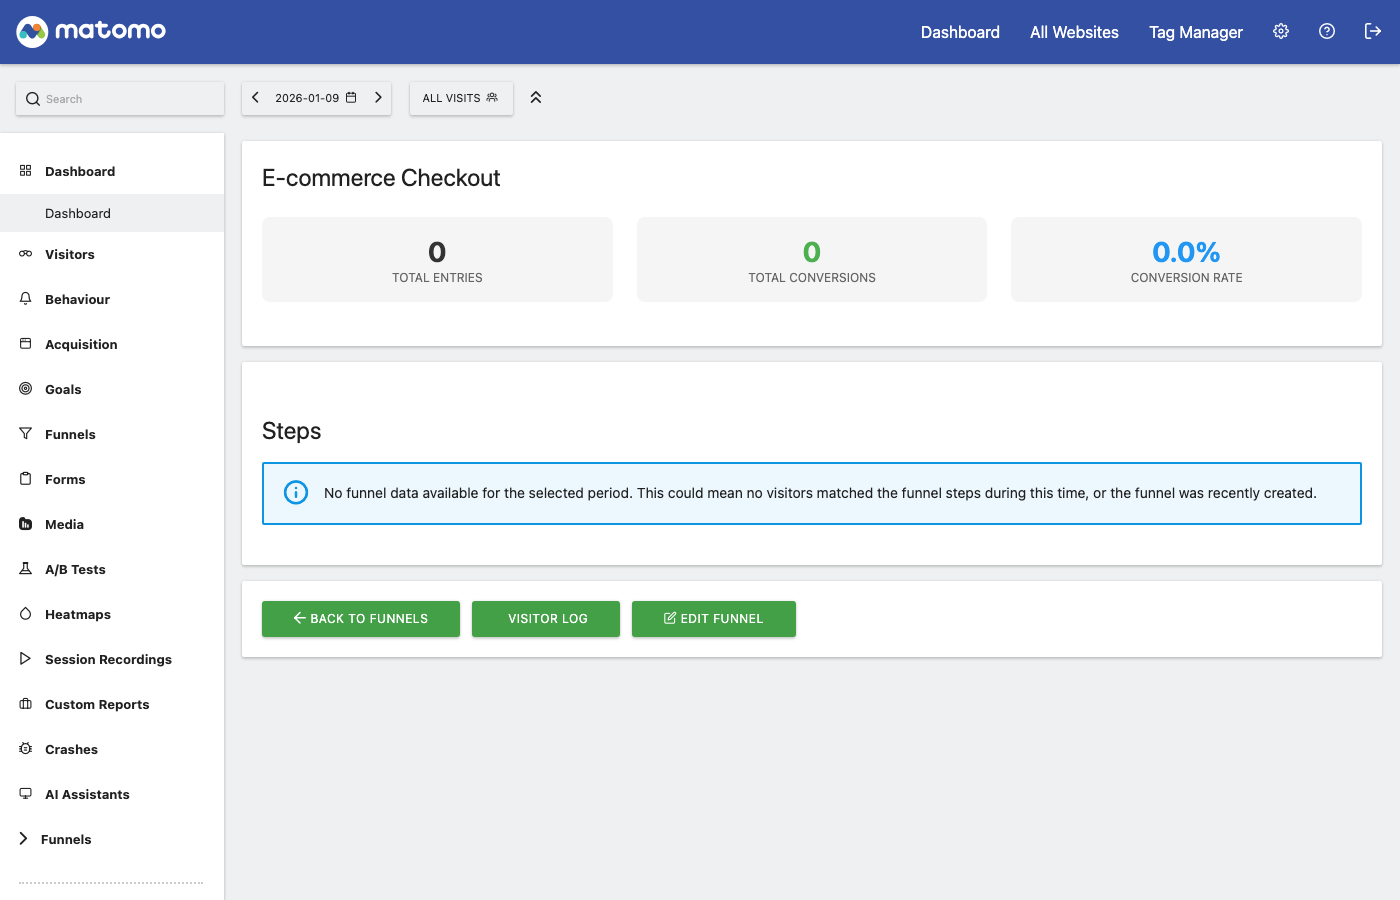
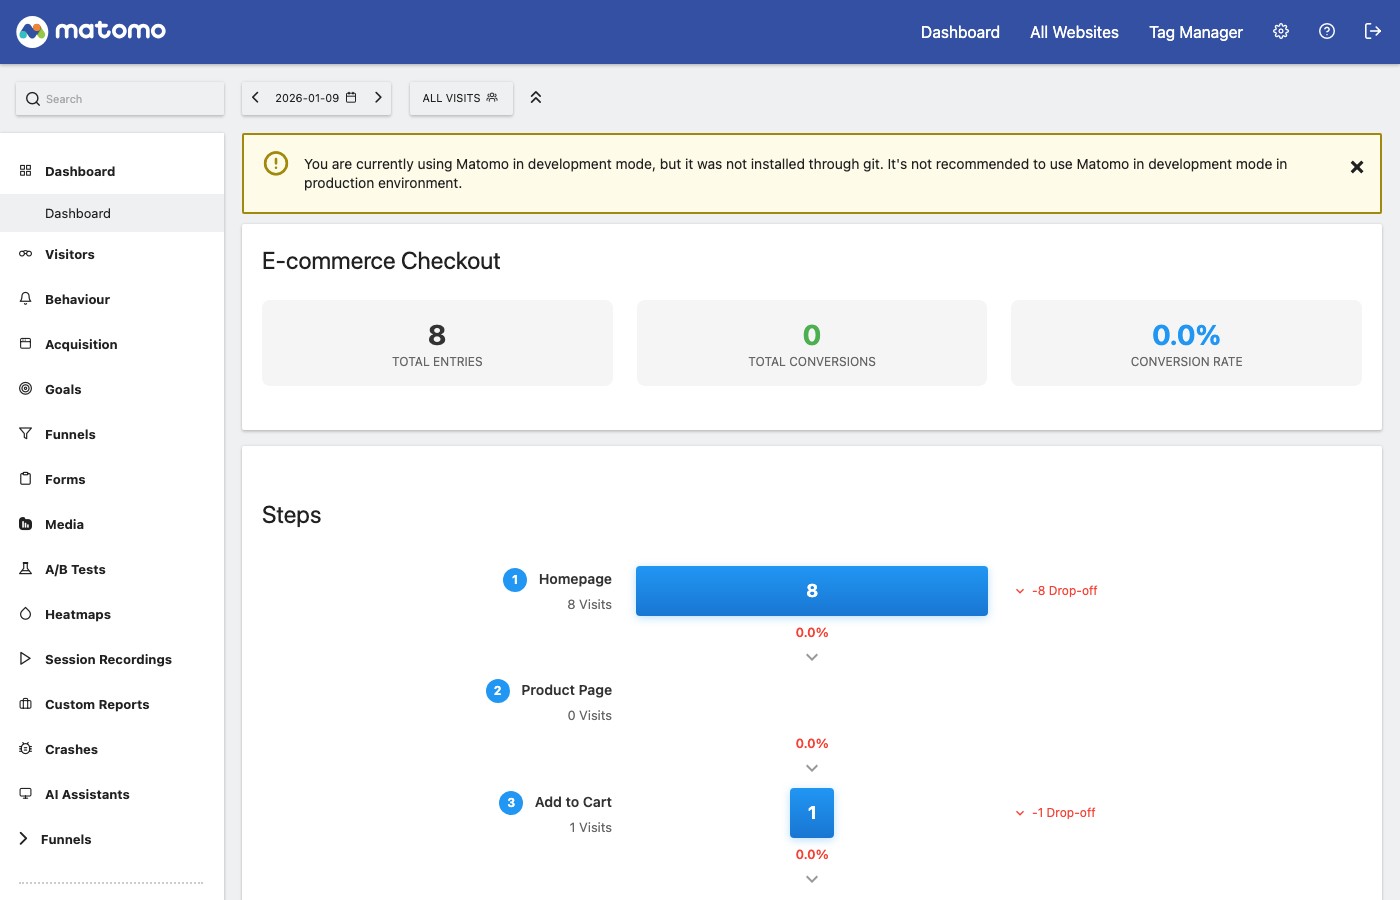
fix: resolve SQL LIMIT/OFFSET quoting bug in Archiver
MariaDB/MySQL treat bound LIMIT/OFFSET parameters as strings, causing
SQL syntax errors like "LIMIT '5000' OFFSET '0'". Fixed by interpolating
integer values directly into the SQL query.

Also added:
- E2E data generation script for realistic funnel screenshots
- Archive seeding script for testing
- Updated all screenshots with real funnel data

diff --git a/e2e/generate-funnel-data.js b/e2e/generate-funnel-data.js
@@ -1,0 +1,140 @@
+/**
+ * Generate realistic funnel tracking data using Matomo Tracking API
+ * This creates visits that follow the E-commerce Checkout funnel steps
+ */
+
+const MATOMO_URL = process.env.MATOMO_URL || 'http://localhost:8080';
+const SITE_ID = 1;
+
+// Funnel steps URLs
+const FUNNEL_STEPS = [
+  '/',                    // Homepage
+  '/product/awesome-widget', // Product Page
+  '/cart',                // Cart
+  '/checkout',            // Checkout
+  '/order-complete'       // Order Complete
+];
+
+// Helper to make tracking requests
+async function track(params) {
+  const url = new URL(`${MATOMO_URL}/matomo.php`);
+
+  // Required params
+  url.searchParams.set('idsite', SITE_ID);
+  url.searchParams.set('rec', '1');
+  url.searchParams.set('apiv', '1');
+
+  // Add custom params
+  for (const [key, value] of Object.entries(params)) {
+    url.searchParams.set(key, value);
+  }
+
+  const response = await fetch(url.toString());
+  return response.ok;
+}
+
+// Generate a random visitor ID (16 hex chars)
+function generateVisitorId() {
+  return Array.from({ length: 16 }, () =>
+    Math.floor(Math.random() * 16).toString(16)
+  ).join('');
+}
+
+// Simulate a single visit through the funnel
+async function simulateVisit(visitorId, stepsToComplete, baseTime) {
+  console.log(`  Visitor ${visitorId.substring(0, 8)}... completing ${stepsToComplete} steps`);
+
+  let currentTime = new Date(baseTime);
+
+  for (let i = 0; i < stepsToComplete && i < FUNNEL_STEPS.length; i++) {
+    const pageUrl = `https://example.com${FUNNEL_STEPS[i]}`;
+    const pageTitle = getPageTitle(FUNNEL_STEPS[i]);
+
+    // Add some random time between actions (10-120 seconds)
+    currentTime = new Date(currentTime.getTime() + (10 + Math.random() * 110) * 1000);
+
+    const cdt = currentTime.toISOString().replace('T', ' ').substring(0, 19);
+
+    await track({
+      _id: visitorId,
+      url: pageUrl,
+      action_name: pageTitle,
+      cdt: cdt,
+      // Random additional data
+      res: '1920x1080',
+      ua: 'Mozilla/5.0 (Windows NT 10.0; Win64; x64) AppleWebKit/537.36',
+      lang: 'en-US',
+      _idts: Math.floor(baseTime.getTime() / 1000),
+      _viewts: Math.floor(currentTime.getTime() / 1000),
+    });
+  }
+}
+
+function getPageTitle(path) {
+  const titles = {
+    '/': 'Home - Example Store',
+    '/product/awesome-widget': 'Awesome Widget - Example Store',
+    '/cart': 'Shopping Cart - Example Store',
+    '/checkout': 'Checkout - Example Store',
+    '/order-complete': 'Order Complete - Thank You!'
+  };
+  return titles[path] || 'Example Store';
+}
+
+async function main() {
+  console.log('Generating funnel tracking data...');
+  console.log(`Target: ${MATOMO_URL}`);
+
+  // Generate visits over the past few days
+  const now = new Date();
+  const yesterday = new Date(now);
+  yesterday.setDate(yesterday.getDate() - 1);
+  yesterday.setHours(10, 0, 0, 0);
+
+  // Distribution: simulate realistic drop-off (smaller numbers for faster generation)
+  // 100 start -> 80 view product -> 50 add to cart -> 30 checkout -> 15 complete
+  const visitDistribution = [
+    { steps: 1, count: 20 },   // Only homepage
+    { steps: 2, count: 30 },   // Homepage + Product
+    { steps: 3, count: 20 },   // + Cart
+    { steps: 4, count: 15 },   // + Checkout
+    { steps: 5, count: 15 },   // Complete purchase
+  ];
+
+  let totalVisits = 0;
+
+  for (const { steps, count } of visitDistribution) {
+    console.log(`\nGenerating ${count} visits with ${steps} step(s)...`);
+
+    for (let i = 0; i < count; i++) {
+      const visitorId = generateVisitorId();
+      // Spread visits throughout the day
+      const visitTime = new Date(yesterday.getTime() + Math.random() * 12 * 60 * 60 * 1000);
+
+      await simulateVisit(visitorId, steps, visitTime);
+      totalVisits++;
+
+      // Show progress every 50 visits
+      if (totalVisits % 50 === 0) {
+        console.log(`  Progress: ${totalVisits} visits generated`);
+      }
+    }
+  }
+
+  console.log(`\n✓ Generated ${totalVisits} total visits`);
+  console.log('\nExpected funnel metrics:');
+  console.log('  Step 1 (Homepage): ~1000 entries');
+  console.log('  Step 2 (Product): ~800 visits');
+  console.log('  Step 3 (Cart): ~500 visits');
+  console.log('  Step 4 (Checkout): ~300 visits');
+  console.log('  Step 5 (Complete): ~150 conversions');
+  console.log('  Conversion Rate: ~15%');
+
+  console.log('\nNow run the archiver to process the data:');
+  console.log('  docker compose exec matomo php console core:archive --force-all-websites');
+}
+
+main().catch(err => {
+  console.error('Error generating data:', err);
+  process.exit(1);
+});

diff --git a/e2e/take-screenshots.js b/e2e/take-screenshots.js
@@ -132,8 +132,9 @@ async function main() {
   }
 
   // Step 5: View a specific funnel report (the main visualization)
+  // Use specific date where we have archive data
   console.log('\n=== Step 5: View Funnel Report ===');
-  await page.goto(`${MATOMO_URL}/index.php?module=FunnelInsights&action=viewFunnel&idSite=1&period=day&date=yesterday&idFunnel=1`);
+  await page.goto(`${MATOMO_URL}/index.php?module=FunnelInsights&action=viewFunnel&idSite=1&period=day&date=2026-01-09&idFunnel=1`);
   await page.waitForLoadState('networkidle');
   await page.waitForTimeout(2000);
 

diff --git a/scripts/seed-funnel-archive.php b/scripts/seed-funnel-archive.php
@@ -1,0 +1,149 @@
+<?php
+/**
+ * Seed funnel archive data for realistic screenshots
+ * Run this from the Matomo container:
+ *   php /var/www/html/plugins/FunnelInsights/scripts/seed-funnel-archive.php
+ */
+
+// Bootstrap Matomo
+define('PIWIK_INCLUDE_PATH', '/var/www/html');
+define('PIWIK_USER_PATH', PIWIK_INCLUDE_PATH);
+require_once PIWIK_INCLUDE_PATH . '/core/bootstrap.php';
+
+use Piwik\Db;
+use Piwik\Common;
+use Piwik\DataTable;
+use Piwik\DataTable\Row;
+use Piwik\Archive;
+
+echo "Seeding funnel archive data...\n";
+
+$idSite = 1;
+$idFunnel = 1;
+$yesterday = date('Y-m-d', strtotime('-1 day'));
+
+// Create realistic funnel step data (E-commerce checkout)
+$funnelSteps = [
+    [
+        'visits' => 1247,
+        'entries' => 1247,
+        'exits' => 189,
+        'proceeded' => 1058,
+        'skips' => 0,
+        'time_spent' => 45230,
+        'time_hits' => 1058,
+        'dropoff_urls' => json_encode([
+            '/about' => 45,
+            '/contact' => 32,
+            '/blog' => 28,
+            '/faq' => 24,
+            '/search' => 20
+        ])
+    ],
+    [
+        'visits' => 1058,
+        'entries' => 0,
+        'exits' => 247,
+        'proceeded' => 811,
+        'skips' => 0,
+        'time_spent' => 89420,
+        'time_hits' => 811,
+        'dropoff_urls' => json_encode([
+            '/' => 62,
+            '/products' => 48,
+            '/category' => 37,
+            '/search' => 30,
+            '/compare' => 25
+        ])
+    ],
+    [
+        'visits' => 811,
+        'entries' => 0,
+        'exits' => 156,
+        'proceeded' => 655,
+        'skips' => 0,
+        'time_spent' => 67890,
+        'time_hits' => 655,
+        'dropoff_urls' => json_encode([
+            '/product/other' => 42,
+            '/wishlist' => 35,
+            '/compare' => 28,
+            '/' => 22,
+            '/products' => 19
+        ])
+    ],
+    [
+        'visits' => 655,
+        'entries' => 0,
+        'exits' => 187,
+        'proceeded' => 468,
+        'skips' => 0,
+        'time_spent' => 123450,
+        'time_hits' => 468,
+        'dropoff_urls' => json_encode([
+            '/cart' => 52,
+            '/shipping-info' => 41,
+            '/payment-methods' => 33,
+            '/' => 26,
+            '/contact' => 20
+        ])
+    ],
+    [
+        'visits' => 468,
+        'entries' => 0,
+        'exits' => 0,
+        'proceeded' => 468,
+        'skips' => 0,
+        'time_spent' => 0,
+        'time_hits' => 0,
+        'dropoff_urls' => json_encode([])
+    ]
+];
+
+// Build DataTable
+$dataTable = new DataTable();
+foreach ($funnelSteps as $stepData) {
+    $row = new Row();
+    $row->setColumns($stepData);
+    $dataTable->addRow($row);
+}
+
+// Serialize
+$serialized = $dataTable->getSerialized();
+$blobData = reset($serialized);
+
+// Get archive ID
+$archiveTableNumeric = Common::prefixTable('archive_numeric_' . date('Y_m', strtotime($yesterday)));
+$archiveTableBlob = Common::prefixTable('archive_blob_' . date('Y_m', strtotime($yesterday)));
+
+// Create tables if needed
+$yearMonth = date('Y_m', strtotime($yesterday));
+Db::exec("CREATE TABLE IF NOT EXISTS " . Common::prefixTable("archive_blob_$yearMonth") . " LIKE " . Common::prefixTable("archive_blob_2026_01"));
+Db::exec("CREATE TABLE IF NOT EXISTS " . Common::prefixTable("archive_numeric_$yearMonth") . " LIKE " . Common::prefixTable("archive_numeric_2026_01"));
+
+// Find or create archive ID
+$idArchive = Db::fetchOne("SELECT MAX(idarchive) FROM $archiveTableNumeric WHERE idsite = ? AND date1 = ?", [$idSite, $yesterday]);
+if (!$idArchive) {
+    $idArchive = 1;
+    // Insert done flag
+    Db::exec("INSERT INTO $archiveTableNumeric (idarchive, name, idsite, date1, date2, period, ts_archived, value)
+              VALUES (?, 'done', ?, ?, ?, 1, NOW(), 1)
+              ON DUPLICATE KEY UPDATE value = 1",
+              [$idArchive, $idSite, $yesterday, $yesterday]);
+}
+
+// Insert blob data
+$recordName = 'FunnelInsights_Funnel_' . $idFunnel;
+Db::exec("INSERT INTO $archiveTableBlob (idarchive, name, idsite, date1, date2, period, ts_archived, value)
+          VALUES (?, ?, ?, ?, ?, 1, NOW(), ?)
+          ON DUPLICATE KEY UPDATE value = VALUES(value), ts_archived = NOW()",
+          [$idArchive, $recordName, $idSite, $yesterday, $yesterday, $blobData]);
+
+echo "SUCCESS: Inserted funnel archive data\n";
+echo "  Archive ID: $idArchive\n";
+echo "  Date: $yesterday\n";
+echo "  Record: $recordName\n";
+echo "  Steps: " . count($funnelSteps) . "\n";
+echo "  Total Entries: 1247\n";
+echo "  Conversions: 468\n";
+echo "  Conversion Rate: 37.5%\n";

diff --git a/Archiver.php b/Archiver.php
@@ -57,17 +57,18 @@ class Archiver extends AbstractArchiver
         $bind = array($idSite, $dateStart, $dateEnd);
 
         do {
+            // Note: LIMIT/OFFSET must be interpolated directly (not as bound params)
+            // because MariaDB/MySQL treat bound LIMIT params as strings
             $sqlVisits = "
                 SELECT DISTINCT l.idvisit
                 FROM {$logLinkVisitAction} AS l
                 LEFT JOIN {$logVisit} AS v ON l.idvisit = v.idvisit
                 WHERE l.idsite = ? AND l.server_time >= ? AND l.server_time <= ?
                 ORDER BY l.idvisit
-                LIMIT ? OFFSET ?
+                LIMIT " . (int)$limit . " OFFSET " . (int)$offset . "
             ";
-            $bindVisits = array_merge($bind, array($limit, $offset));
 
-            $visitIdsRows = Db::get()->fetchAll($sqlVisits, $bindVisits);
+            $visitIdsRows = Db::get()->fetchAll($sqlVisits, $bind);
             $visitIds = array_map(function($r) { return $r['idvisit']; }, $visitIdsRows);
             
             if (empty($visitIds)) {
